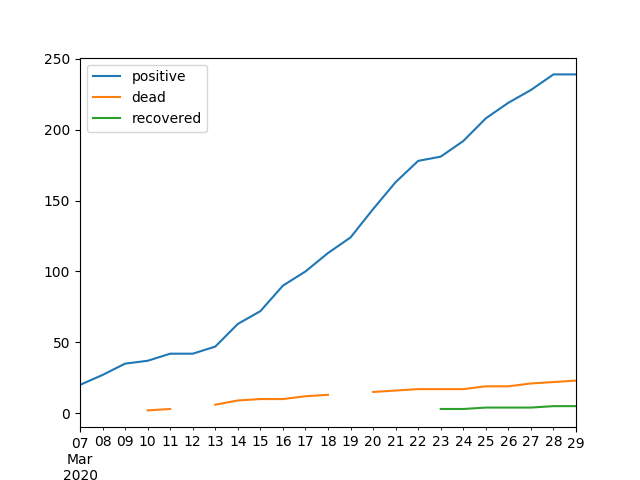
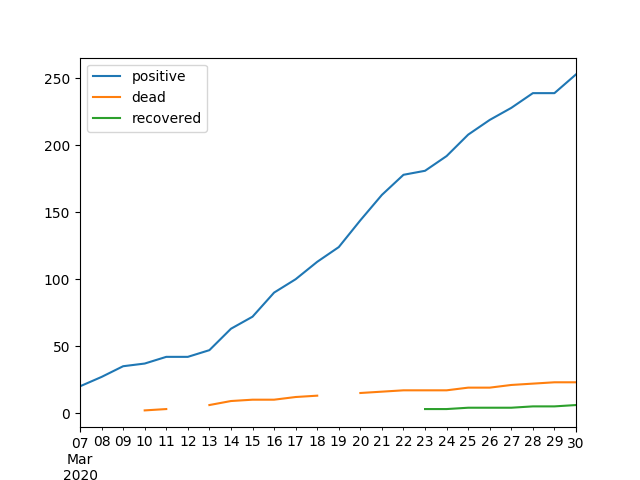
Update data and script

diff --git a/COVID-19/analysis.py b/COVID-19/analysis.py
@@ -16,5 +16,6 @@ df2.index = df.index
 
 
 df2.plot()
+plt.savefig('COVID-19.png')
 
 plt.show()
